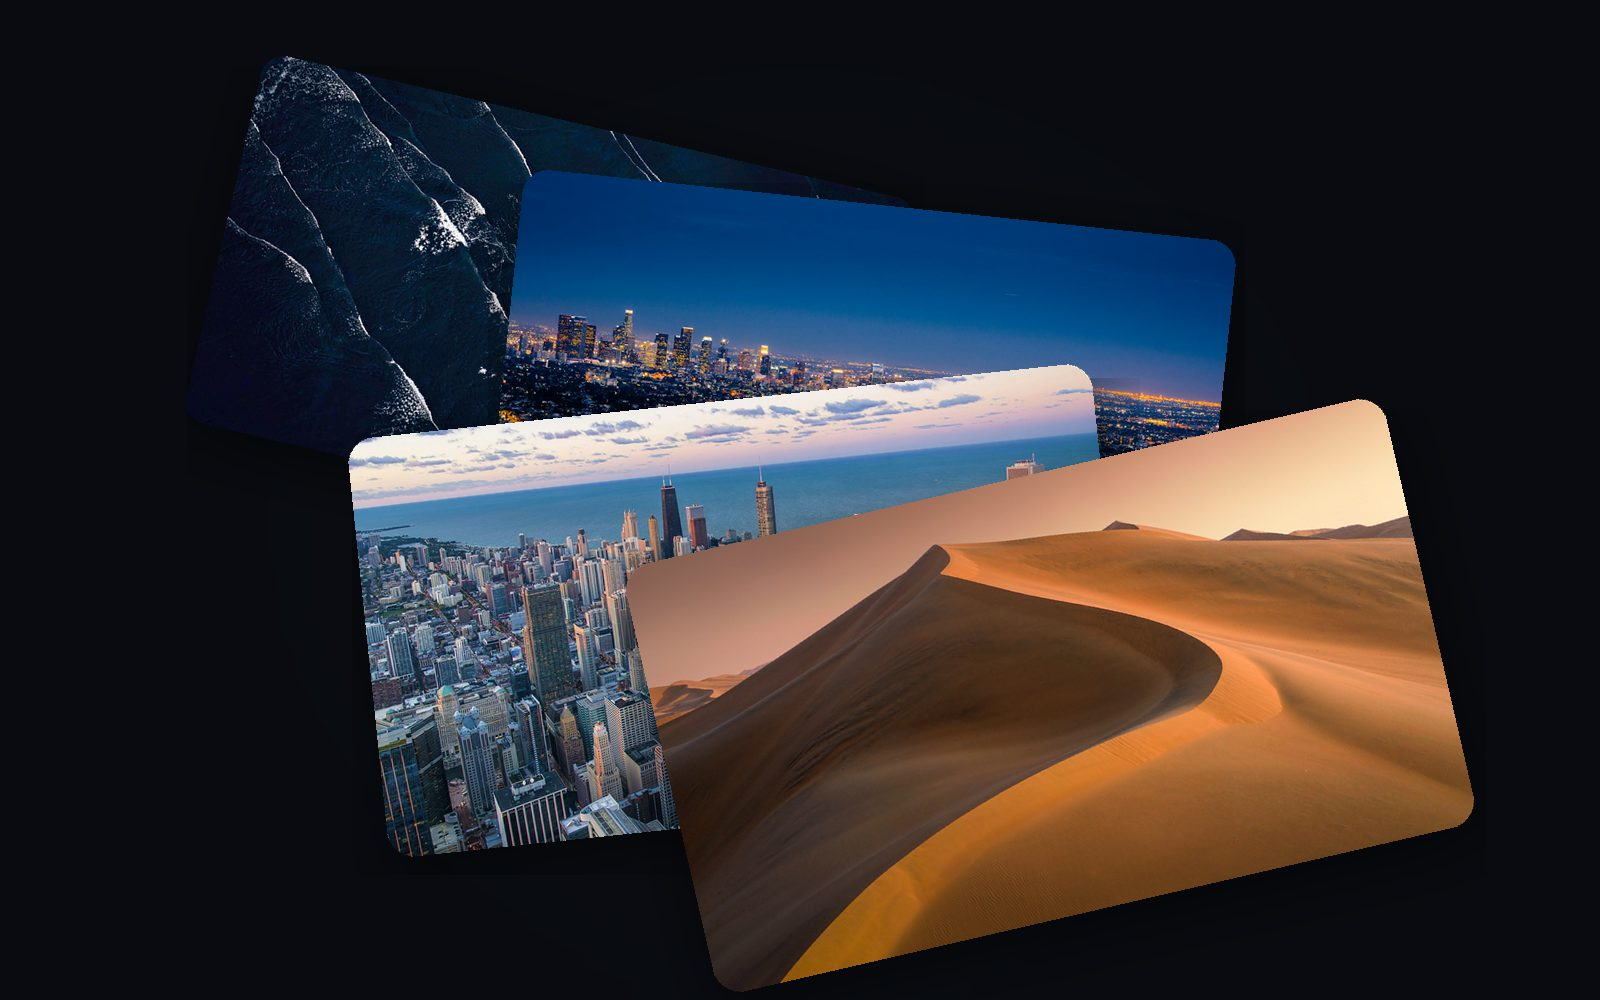
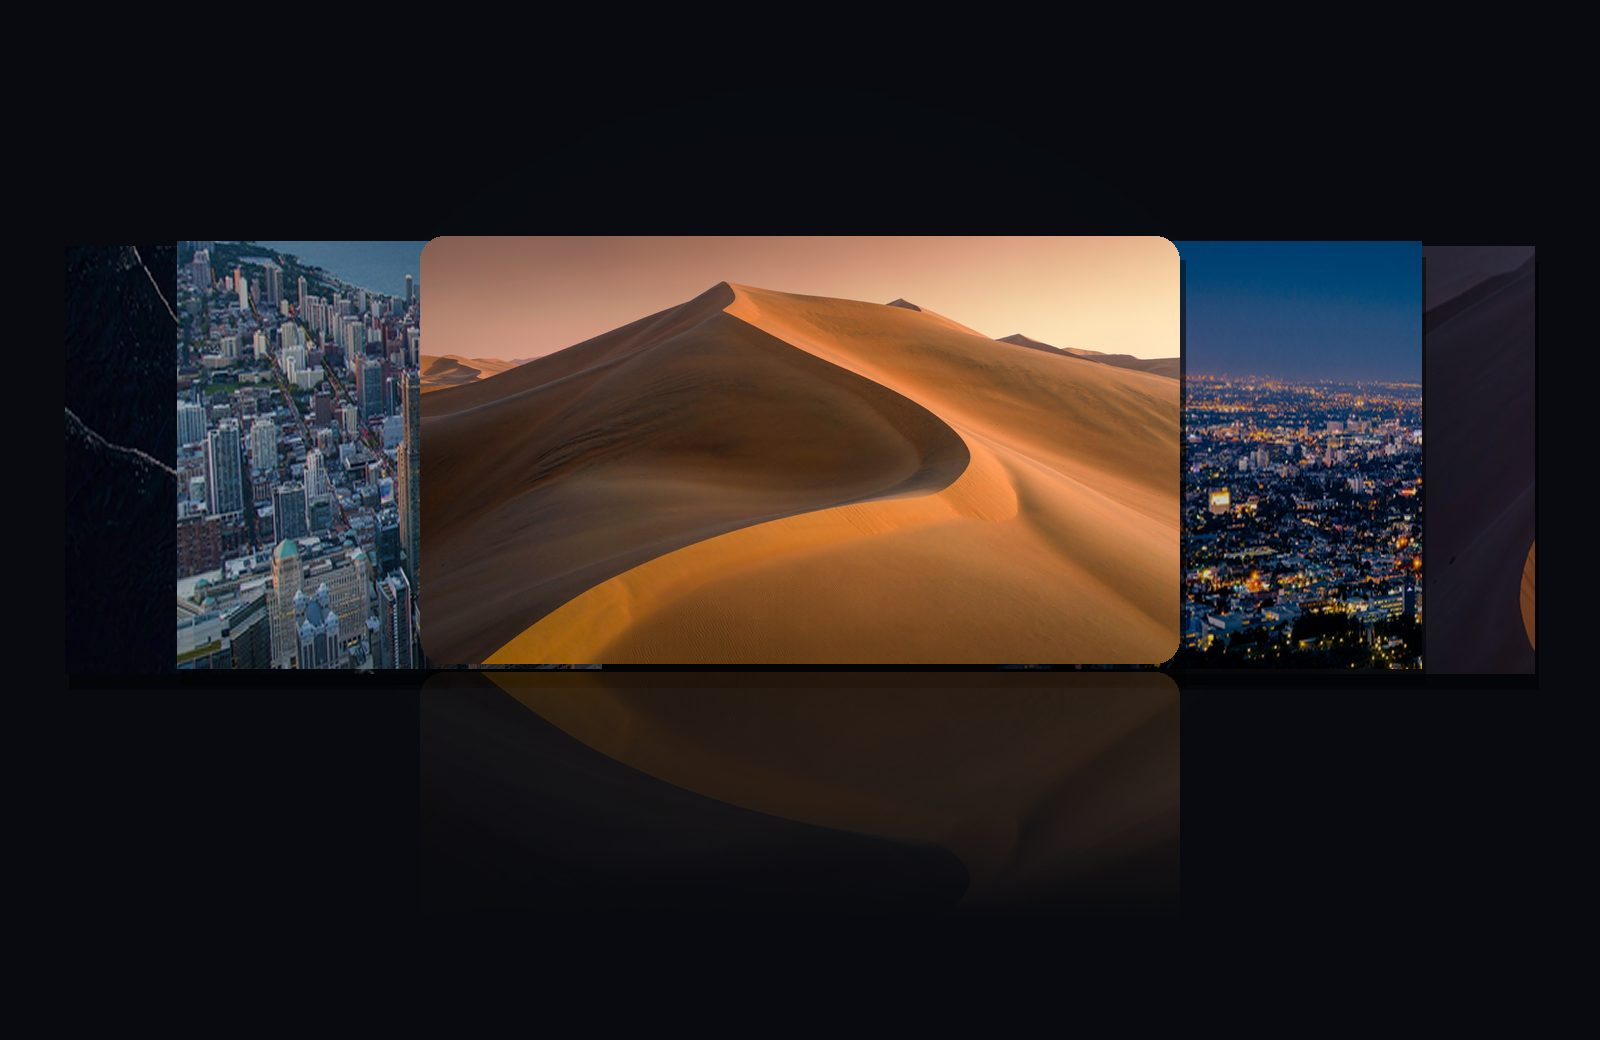
Review round 2: serif letterspaced brandmark, Cover Flow wallpaper stack, copy tightening, larger body text, section spacing

diff --git a/index.html b/index.html
@@ -107,7 +107,7 @@
   .chip{display:inline-flex;align-items:center;gap:9px;padding:7px 15px;border:1px solid rgba(255,255,255,.18);border-radius:999px;font-family:var(--mono);font-size:11px;letter-spacing:.14em;text-transform:uppercase;color:#d3dbe3;background:rgba(6,8,12,.48);backdrop-filter:blur(10px);-webkit-backdrop-filter:blur(10px)}
   .chip i{width:6px;height:6px;border-radius:50%;background:var(--cyan);box-shadow:0 0 12px var(--cyan)}
   .hero h1{margin:30px 0 0;font-size:inherit;font-weight:700;letter-spacing:0}
-  .hero h1 .brandmark{display:block;font-family:var(--mono);font-size:13px;letter-spacing:.46em;text-indent:.46em;text-transform:uppercase;color:rgba(255,255,255,.8)}
+  .hero h1 .brandmark{display:block;font-family:"Didot","Bodoni 72","Songti SC","Times New Roman",serif;font-weight:400;font-size:17px;letter-spacing:.6em;text-indent:.6em;text-transform:uppercase;color:rgba(255,255,255,.78)}
   .hero h1 .slogan{display:block;margin-top:26px;font-size:clamp(58px,11.5vw,164px);line-height:1.04;letter-spacing:-.042em;font-weight:700;
     background:linear-gradient(98deg,#ffffff 6%,#e4f5ff 40%,#d3caff 96%);-webkit-background-clip:text;background-clip:text;color:transparent;
     filter:drop-shadow(0 18px 50px rgba(0,0,0,.55))}
@@ -120,7 +120,7 @@
   .btn.primary{background:#f4f7f9;color:#07080a;box-shadow:0 10px 34px rgba(110,231,255,.2)}
   .btn.ghost{border:1px solid rgba(255,255,255,.26);color:#eef3f8;background:rgba(6,8,12,.42);backdrop-filter:blur(10px);-webkit-backdrop-filter:blur(10px)}
   .btn.ghost:hover{border-color:rgba(110,231,255,.55)}
-  .hero-meta{margin-top:24px;font-family:var(--mono);font-size:12px;letter-spacing:.14em;text-transform:uppercase;color:rgba(255,255,255,.66);text-shadow:0 1px 12px rgba(0,0,0,.7)}
+  .hero-meta{margin-top:24px;font-family:var(--mono);font-size:12.5px;letter-spacing:.14em;text-transform:uppercase;color:rgba(255,255,255,.66);text-shadow:0 1px 12px rgba(0,0,0,.7)}
   .hero-meta span+span::before{content:"·";margin:0 12px;color:rgba(255,255,255,.34)}
   .scroll-hint{position:absolute;left:50%;bottom:24px;transform:translateX(-50%);z-index:2;display:flex;flex-direction:column;align-items:center;gap:8px;color:rgba(255,255,255,.62);font-family:var(--mono);font-size:10px;letter-spacing:.24em;text-transform:uppercase}
   .scroll-hint svg{width:16px;height:16px;stroke:currentColor;fill:none;stroke-width:1.6;animation:hint 2.4s ease-in-out infinite}
@@ -133,20 +133,21 @@
   .screen{position:relative;border-radius:18px;overflow:hidden;border:1px solid rgba(255,255,255,.14);box-shadow:0 40px 120px rgba(0,0,0,.75),0 0 0 1px rgba(0,0,0,.6) inset;background:#000}
   .screen img{display:block;width:100%;height:auto}
   .screen::after{content:"";position:absolute;inset:0;border-radius:18px;background:linear-gradient(180deg,rgba(255,255,255,.10),transparent 18%,transparent 82%,rgba(0,0,0,.35));pointer-events:none}
-  .tv-note{margin:18px 0 0;font-size:13.5px;color:var(--faint);text-align:center}
+  .tv-note{margin:18px 0 0;font-size:15px;color:var(--faint);text-align:center}
 
   /* stats */
   .stats{margin:clamp(90px,13vh,150px) 0 0;border-top:1px solid var(--line-soft);border-bottom:1px solid var(--line-soft);display:grid;grid-template-columns:repeat(4,1fr)}
   .stat{padding:30px 22px;text-align:center;border-left:1px solid var(--line-soft)}
   .stat:first-child{border-left:0}
   .stat b{display:block;font-family:var(--mono);font-size:24px;letter-spacing:-.01em;color:#eaf3f8}
-  .stat span{display:block;margin-top:7px;font-size:12.5px;color:var(--faint);letter-spacing:.04em}
+  .stat span{display:block;margin-top:7px;font-size:13.5px;color:var(--faint);letter-spacing:.04em}
   @media(max-width:700px){.stats{grid-template-columns:repeat(2,1fr)}.stat:nth-child(3){border-left:0}.stat:nth-child(n+3){border-top:1px solid var(--line-soft)}}
 
   section{padding:clamp(130px,18vh,210px) 0 0}
+  .section-far{padding-top:clamp(200px,28vh,320px)}
   .eyebrow{font-family:var(--mono);font-size:11.5px;letter-spacing:.2em;text-transform:uppercase;color:var(--cyan);opacity:.85}
   h2{margin:16px 0 0;font-size:clamp(34px,5vw,58px);line-height:1.12;letter-spacing:-.035em;font-weight:700;max-width:760px}
-  .section-sub{margin:20px 0 0;color:var(--sub);max-width:640px;font-size:clamp(16px,1.7vw,19px);line-height:1.75}
+  .section-sub{margin:20px 0 0;color:var(--sub);max-width:640px;font-size:clamp(17px,1.8vw,20px);line-height:1.75}
 
   /* compare */
   .compare{display:grid;grid-template-columns:1fr 1.3fr;gap:20px;margin-top:56px;align-items:start}
@@ -154,11 +155,11 @@
   .panel{position:relative;border:1px solid var(--line-soft);border-radius:var(--radius);padding:32px 30px;background:linear-gradient(180deg,rgba(255,255,255,.035),rgba(255,255,255,.012))}
   .panel.now{border-color:rgba(255,255,255,.16)}
   .panel.good{border-color:rgba(110,231,255,.32);background:linear-gradient(180deg,rgba(110,231,255,.075),rgba(255,255,255,.012))}
-  .panel h3{margin:0 0 4px;font-size:17px;font-weight:650;letter-spacing:-.01em}
-  .panel .tag{font-family:var(--mono);font-size:10.5px;letter-spacing:.16em;text-transform:uppercase;color:var(--faint)}
+  .panel h3{margin:0 0 4px;font-size:18px;font-weight:650;letter-spacing:-.01em}
+  .panel .tag{font-family:var(--mono);font-size:11px;letter-spacing:.16em;text-transform:uppercase;color:var(--faint)}
   .panel.good .tag{color:rgba(110,231,255,.85)}
   .panel ul{list-style:none;margin:20px 0 0;padding:0}
-  .panel li{position:relative;padding-left:24px;margin-bottom:13px;font-size:15px;color:#c8d0da;line-height:1.6}
+  .panel li{position:relative;padding-left:24px;margin-bottom:13px;font-size:16px;color:#c8d0da;line-height:1.6}
   .panel li::before{content:"";position:absolute;left:0;top:10px;width:7px;height:7px;border-radius:2px;background:#4a525b}
   .panel.good li::before{background:var(--cyan);box-shadow:0 0 10px rgba(110,231,255,.6)}
   .panel.good li{color:#e6edf4}
@@ -168,8 +169,8 @@
   .row{display:grid;grid-template-columns:5fr 7fr;gap:clamp(34px,5vw,76px);align-items:center}
   .row.flip .row-media{order:-1}
   .row h3{margin:0;font-size:clamp(28px,3.6vw,44px);line-height:1.15;letter-spacing:-.032em;font-weight:700}
-  .row p{margin:18px 0 0;color:var(--sub);font-size:16.5px;line-height:1.8;max-width:460px}
-  .row .row-index{font-family:var(--mono);font-size:11px;letter-spacing:.2em;text-transform:uppercase;color:var(--faint);display:block;margin-bottom:14px}
+  .row p{margin:18px 0 0;color:var(--sub);font-size:17.5px;line-height:1.8;max-width:460px}
+  .row .row-index{font-family:var(--mono);font-size:12px;letter-spacing:.2em;text-transform:uppercase;color:var(--faint);display:block;margin-bottom:14px}
   .row-media{border-radius:var(--radius);overflow:hidden;border:1px solid rgba(255,255,255,.1);box-shadow:0 30px 90px rgba(0,0,0,.55)}
   .row-media img{display:block;width:100%;height:auto;transform:scale(1.045);transition:transform 1.4s cubic-bezier(.2,.7,.2,1)}
   .row.in .row-media img{transform:scale(1)}
@@ -178,17 +179,17 @@
   /* statement */
   .statement{margin-top:clamp(96px,14vh,170px);text-align:center}
   .statement h3{margin:0;font-size:clamp(30px,4.6vw,54px);line-height:1.15;letter-spacing:-.035em;font-weight:700}
-  .statement p{margin:18px auto 0;color:var(--sub);max-width:560px;font-size:16.5px;line-height:1.8}
+  .statement p{margin:18px auto 0;color:var(--sub);max-width:560px;font-size:17.5px;line-height:1.8}
 
   /* gallery */
   .gallery-wide{margin-top:64px}
   .gallery-wide figure{margin:0}
   .gallery-wide img{display:block;width:100%;height:auto;border-radius:var(--radius);border:1px solid var(--line-soft);box-shadow:0 24px 70px rgba(0,0,0,.55)}
-  .gallery-wide figcaption{margin-top:14px;font-size:13.5px;color:var(--faint);text-align:center}
+  .gallery-wide figcaption{margin-top:14px;font-size:15px;color:var(--faint);text-align:center}
 
   /* languages */
   .langs{display:flex;flex-wrap:wrap;gap:10px;margin-top:44px}
-  .langs span{border:1px solid var(--line-soft);border-radius:999px;padding:9px 17px;font-size:14px;color:#c3cbd4;background:rgba(255,255,255,.022)}
+  .langs span{border:1px solid var(--line-soft);border-radius:999px;padding:10px 18px;font-size:15px;color:#c3cbd4;background:rgba(255,255,255,.022)}
 
   /* install */
   .steps{display:grid;grid-template-columns:1fr 1fr;gap:18px;margin-top:52px}
@@ -201,21 +202,21 @@
   .term pre{margin:0;padding:20px;font-family:var(--mono);font-size:12.8px;line-height:1.75;color:#c8e6f2;overflow-x:auto;white-space:pre}
   .term pre .c{color:#5f6a76}
   .step-copy{border:1px solid var(--line-soft);border-radius:var(--radius);padding:28px 26px;background:linear-gradient(180deg,rgba(255,255,255,.03),transparent)}
-  .step-copy h3{margin:0 0 9px;font-size:16.5px;font-weight:650}
-  .step-copy p{margin:0;color:var(--sub);font-size:14.5px;line-height:1.7}
+  .step-copy h3{margin:0 0 9px;font-size:17px;font-weight:650}
+  .step-copy p{margin:0;color:var(--sub);font-size:15.5px;line-height:1.7}
   .step-copy code{font-family:var(--mono);font-size:12.8px;background:rgba(255,255,255,.06);padding:2px 6px;border-radius:5px;color:#d5ecf7}
 
   /* faq */
   .faq{margin-top:44px;border-top:1px solid var(--line-soft)}
   details{border-bottom:1px solid var(--line-soft);padding:24px 0}
-  summary{cursor:pointer;font-size:16.5px;font-weight:600;list-style:none;display:flex;justify-content:space-between;gap:20px;align-items:center;letter-spacing:-.01em}
+  summary{cursor:pointer;font-size:17px;font-weight:600;list-style:none;display:flex;justify-content:space-between;gap:20px;align-items:center;letter-spacing:-.01em}
   summary::-webkit-details-marker{display:none}
   summary::after{content:"+";font-family:var(--mono);color:var(--faint);font-size:18px;transition:transform .2s}
   details[open] summary::after{content:"–";color:var(--cyan)}
-  details p{margin:13px 0 0;color:var(--sub);font-size:14.5px;max-width:760px}
+  details p{margin:13px 0 0;color:var(--sub);font-size:15.5px;max-width:760px}
   details a{color:#bfe9fb;border-bottom:1px solid rgba(191,233,251,.35)}
 
-  footer{margin-top:clamp(130px,18vh,200px);border-top:1px solid var(--line-soft);padding:44px 0 68px;color:var(--faint);font-size:13px}
+  footer{margin-top:clamp(130px,18vh,200px);border-top:1px solid var(--line-soft);padding:44px 0 68px;color:var(--faint);font-size:13.5px}
   footer .row{display:flex;justify-content:space-between;gap:24px;flex-wrap:wrap}
   footer a{color:#9fb0bd}
   footer a:hover{color:#dff2fb}
@@ -253,7 +254,7 @@
         <span class="brandmark">HLine TV</span>
         <span class="slogan"><span>大屏之上</span><span>留白</span></span>
       </h1>
-      <p class="lead">抛弃喧嚣的浮华。开机的每一眼，只有时间、天气，和专属于你的视界。</p>
+      <p class="lead">抛弃喧嚣的浮华。<br>开机的每一眼，只有时间、天气，和专属于你的视界。</p>
       <p class="closer">电视，终属于你</p>
       <div class="actions">
         <a class="btn primary" href="https://github.com/Harleyline/hline-tv/releases/latest/download/HLine-TV.apk">下载 HLine TV</a>
@@ -285,27 +286,27 @@
 
   <section id="why" class="wrap reveal">
     <span class="eyebrow">Why HLine TV</span>
-    <h2>开机，只为你。</h2>
+    <h2>开机，只为你</h2>
     <p class="section-sub">默认桌面的每一屏，都在替别人挣钱。HLine TV 把这一屏，还给你。</p>
     <div class="compare">
       <div class="panel now">
         <span class="tag">Before</span>
         <h3>系统默认桌面</h3>
         <ul>
-          <li>开机先过一屏广告或影视推荐</li>
-          <li>首页塞满会员角标、热播榜、活动入口</li>
-          <li>想找自己的 App，要在推荐流里翻</li>
-          <li>预装应用删不掉，也关不干净</li>
+          <li>开机，先看广告</li>
+          <li>首页，全是推荐</li>
+          <li>找自己的 App，要翻半天</li>
+          <li>预装一堆，删不掉</li>
         </ul>
       </div>
       <div class="panel good">
         <span class="tag">After</span>
         <h3>HLine TV</h3>
         <ul>
-          <li>开机就是时钟、天气和你的 App</li>
-          <li>整屏没有一块是拿来卖的</li>
-          <li>常用 App 固定在底部，长按就能整理</li>
-          <li>不 root、不卸载系统应用，随时能换回去</li>
+          <li>开机即见时钟、天气与你的 App</li>
+          <li>整屏没有一块广告</li>
+          <li>常用 App 固定在底部</li>
+          <li>不 root，随时换回去</li>
         </ul>
       </div>
     </div>
@@ -313,14 +314,14 @@
 
   <section id="features" class="wrap">
     <span class="eyebrow reveal">Experience</span>
-    <h2 class="reveal">安静，而丰富。</h2>
+    <h2 class="reveal">安静，而丰富</h2>
     <p class="section-sub reveal">该有的都有，不该有的一样没有。</p>
 
     <div class="rows">
       <div class="row reveal">
         <div>
           <span class="row-index">01 · 首页</span>
-          <h3>一眼，就是全部。</h3>
+          <h3>一眼，就是全部</h3>
           <p>时间、天气、你的 App。开机第一眼，干净得像什么都没发生——这正是重点。</p>
         </div>
         <div class="row-media"><img src="img/home.jpg" width="1920" height="1080" alt="HLine TV 首页：时钟、天气与底部的常用 App" loading="lazy"></div>
@@ -329,16 +330,16 @@
       <div class="row flip reveal">
         <div>
           <span class="row-index">02 · 壁纸</span>
-          <h3>动静之间，皆是风景。</h3>
+          <h3>动静之间，皆是风景</h3>
           <p>航拍视界、精选壁纸、私人相册。随心而动，每一眼都如初见。</p>
         </div>
-        <div class="row-media"><img src="img/w-stack.jpg" width="1600" height="1000" alt="内置静态壁纸层叠展示：海浪、城市夜色、天际线与沙丘" loading="lazy"></div>
+        <div class="row-media"><img src="img/w-stack.jpg" width="1600" height="1040" alt="内置静态壁纸层叠展示：海浪、城市夜色、天际线与沙丘" loading="lazy"></div>
       </div>
 
       <div class="row reveal">
         <div>
           <span class="row-index">03 · 屏保</span>
-          <h3>空闲时，它很美。</h3>
+          <h3>空闲时，它很美</h3>
           <p>航拍影片、壁纸轮换，或者只留一枚时钟。闲置的电视，一样体面。</p>
         </div>
         <div class="row-media"><img src="img/screensaver.jpg" width="1920" height="1080" alt="真机屏保效果：城市天际线壁纸、时钟与天气、底部的常用 App" loading="lazy"></div>
@@ -347,7 +348,7 @@
       <div class="row flip reveal">
         <div>
           <span class="row-index">04 · 整理</span>
-          <h3>整理，随手完成。</h3>
+          <h3>整理，随手完成</h3>
           <p>长按移动、建文件夹、隐藏、卸载；手机上打开一个地址，连壁纸和城市都能改。遥控器终于可以歇歇了。</p>
         </div>
         <div class="row-media"><img src="img/apps.jpg" width="1920" height="1080" alt="全部 App 网格：三行横版磁贴" loading="lazy"></div>
@@ -355,14 +356,14 @@
     </div>
 
     <div class="statement reveal">
-      <h3>更新，悄悄完成。</h3>
+      <h3>更新，悄悄完成</h3>
       <p>控制中心提示新版本，点一下就好。App、排列、壁纸、设置，一切原样。</p>
     </div>
   </section>
 
   <section class="wrap">
     <span class="eyebrow reveal">In use</span>
-    <h2 class="reveal">真机实拍。</h2>
+    <h2 class="reveal">在客厅，眼见为实</h2>
     <div class="gallery-wide reveal">
       <figure>
         <img src="img/home-en.jpg" width="1920" height="1080" alt="英文界面：海浪壁纸，日期与 Hangzhou 天气" loading="lazy">
@@ -371,9 +372,9 @@
     </div>
   </section>
 
-  <section class="wrap">
+  <section class="wrap section-far">
     <span class="eyebrow reveal">Languages</span>
-    <h2 class="reveal">通晓你的母语。</h2>
+    <h2 class="reveal">通晓你的母语</h2>
     <p class="section-sub reveal">无论你的系统设置为何种语言，它都能无缝匹配，一见如故。</p>
     <div class="langs reveal">
       <span>简体中文</span><span>繁體中文</span><span>English</span><span>日本語</span><span>한국어</span>
@@ -384,7 +385,7 @@
 
   <section id="install" class="wrap">
     <span class="eyebrow reveal">Install</span>
-    <h2 class="reveal">一分钟，装好。</h2>
+    <h2 class="reveal">顷刻间，大功告成</h2>
     <p class="section-sub reveal">不用 root，不动系统应用。不喜欢？卸载即回原样。</p>
     <div class="steps">
       <div class="term reveal">
